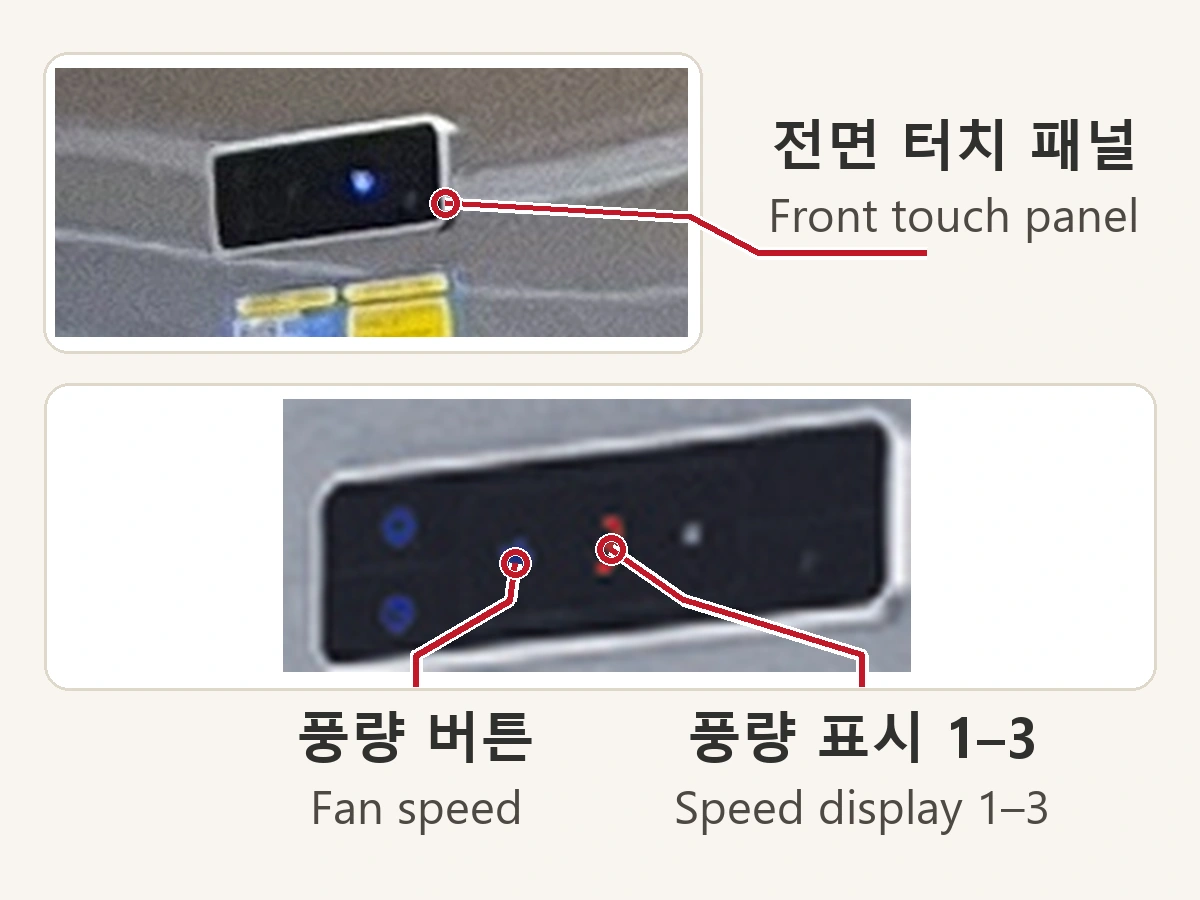
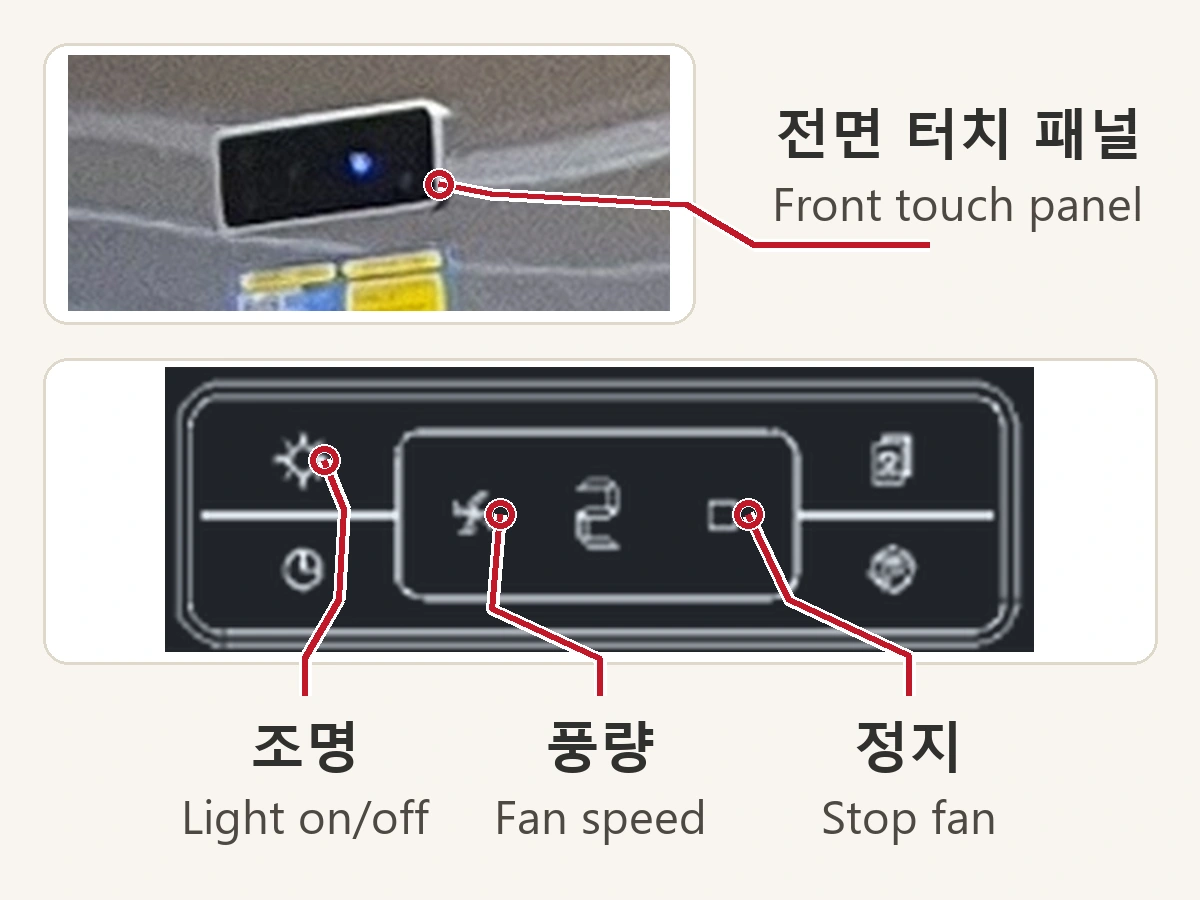
Label range hood light and stop controls

diff --git a/assets/equipment.js b/assets/equipment.js
@@ -71,14 +71,14 @@ export const applianceItems = [
     id:'cooktop', area:'kitchen',
     visuals:[
       official('induction','Haatz IH-232S',['전원과 오른쪽 인덕션 화력 + / −','Power and the induction heat controls (+ / −) on the right','電源と右側のIH火力調節（+ / −）','电源与右侧火力调节（+ / −）','電源與右側火力調節（+ / −）']),
-      guide('hood',['301호 주방 후드 · 전면 터치 패널과 풍량 버튼','Room 301 range hood · Front touch panel and fan speed button','301号室のレンジフード・前面タッチパネルと風量ボタン','301 号房抽油烟机 · 正面触控面板与风速按钮','301 號房抽油煙機 · 正面觸控面板與風速按鈕'])
+      guide('hood',['301호 주방 후드 · 조명, 풍량, 정지 버튼','Room 301 range hood · Light, fan speed and stop','301号室のレンジフード・照明、風量、停止ボタン','301 号房抽油烟机 · 照明、风速、停止按钮','301 號房抽油煙機 · 照明、風速、停止按鈕'])
     ],
     title:['인덕션과 주방 후드','Induction cooktop and range hood','IH調理器とレンジフード','电磁炉与抽油烟机','電磁爐與抽油煙機'],
     model:'Haatz IH-232S · SIH-30S',
     photo:{ id:'guide-laundry', marks:[[32,56],[29,27]], caption:['301호 실제 사진 · 싱크대 오른쪽 검은 상판이 인덕션이고, 위의 스테인리스 기기가 후드입니다.','Room 301 · The black cooktop is to the right of the sink, with the stainless-steel hood above.','301号室の実物写真・流しの右の黒い面がIH、上のステンレス製の機器がフードです。','301 号房实拍 · 水槽右边的黑色台面是电磁炉，上方为不锈钢油烟机。','301 號房實拍 · 水槽右側的黑色檯面是電磁爐，上方為不鏽鋼抽油煙機。'] },
     controls:[
-      ['FAN', ['조리 전에 후드의 팬 모양 버튼을 터치해 풍량을 1~3단으로 조절하세요. 인덕션용 냄비나 팬은 화구 가운데에 놓으세요.', 'Before cooking, tap the fan symbol on the hood to select speed 1, 2 or 3. Centre an induction-compatible pan on the cooking zone.', '調理前にフードのファンマークをタッチし、風量を1〜3段階で調節します。IH対応の鍋は加熱部の中央に置きます。', '烹饪前，触按油烟机上的风扇图标，将风速调至 1 至 3 档。将电磁炉适用的锅放在炉区中央。', '烹調前，觸按抽油煙機上的風扇圖示，將風速調至 1 至 3 檔。將電磁爐適用的鍋放在爐區中央。']],
-      ['⏻ → INDUCTION + / −', ['전원 버튼을 약 1초간 누른 뒤 오른쪽 Induction + / −로 화력을 조절하세요. 왼쪽 Timer는 작동 시간 설정에 사용합니다.', 'Hold Power for about one second, then use the Induction + / − buttons on the right to adjust the heat. The Timer on the left sets the cooking time.', '電源を約1秒押し、右側のInduction + / −で火力を調節します。左側のTimerは時間設定用です。', '按住电源键约 1 秒，再用右侧 Induction + / − 调节火力。左侧 Timer 用于设置时间。', '按住電源鍵約 1 秒，再用右側 Induction + / − 調整火力。左側 Timer 用於設定時間。']],
+      ['HOOD', ['조리 전에 팬 모양을 눌러 풍량을 1~3단으로 조절하세요. 해 모양으로 조명을 켜고 끄며, 네모 버튼을 누르면 팬이 멈춥니다.', 'Tap the fan symbol to choose speed 1–3 before cooking. The sun toggles the light, and the square stops the fan.', '調理前にファンマークを押し、風量を1〜3から選びます。太陽マークで照明を切り替え、四角いボタンでファンを停止します。', '烹饪前，按风扇图标选择 1 至 3 档。太阳图标开关照明，方形按钮停止风扇。', '烹調前，按風扇圖示選擇 1 至 3 檔。太陽圖示開關照明，方形按鈕停止風扇。']],
+      ['⏻ → INDUCTION + / −', ['인덕션용 냄비나 팬을 화구 가운데에 놓으세요. 전원을 약 1초간 누른 뒤 오른쪽 Induction + / −로 화력을 조절하세요. 왼쪽 Timer는 작동 시간을 설정합니다.', 'Centre an induction-compatible pan on the cooking zone. Hold Power for about one second, then adjust the heat with Induction + / − on the right. Timer on the left sets the cooking time.', 'IH対応の鍋を加熱部の中央に置きます。電源を約1秒押し、右側のInduction + / −で火力を調節します。左側のTimerで時間を設定できます。', '将电磁炉适用的锅放在炉区中央。按住电源键约 1 秒，再用右侧 Induction + / − 调节火力。左侧 Timer 用于设置时间。', '將電磁爐適用的鍋放在爐區中央。按住電源鍵約 1 秒，再用右側 Induction + / − 調整火力。左側 Timer 用於設定時間。']],
       ['H', ['조리를 마치면 전원을 끄세요. H가 표시되면 상판이 아직 뜨거우니 손대지 마세요.', 'Switch off after cooking. The H indicator means the glass is still hot. Keep your hands off it.', '調理後は電源を切ります。Hの表示中は天板が熱いため触れないでください。', '烹饪后请关闭电源。显示 H 表示台面仍热，请勿触摸。', '烹調後請關閉電源。顯示 H 代表檯面仍熱，請勿觸摸。']],
     ],
   },

diff --git a/assets/equipment-labels.js b/assets/equipment-labels.js
@@ -3,7 +3,7 @@ export const directPanelLabels = {
   'device-ac-wall': '301호 벽면 조작부 (Room 301 wall control). 위쪽 버튼 전원 (Power), 그 아래 두 버튼 온도 + / − (Temp. + / −)',
   'device-ac': '왼쪽 전원 (Power), 오른쪽 모드 (Mode)에서 냉방 선택 (Select Cool), 전원 아래 온도 + / − (Temp. + / −)',
   'device-speaker': '왼쪽부터 이전 곡 (Previous track), 전원 · 재생/일시정지 (Power · Play/Pause), 다음 곡 (Next track), 모드 (Mode)',
-  'device-hood': '후드 전면 터치 패널 (Front touch panel). 팬 모양의 풍량 버튼 (Fan speed), 오른쪽 숫자는 풍량 표시 1–3 (Speed display 1–3)',
+  'device-hood': '전면 터치 패널 (Front touch panel). 왼쪽 위 해 모양은 조명 (Light on/off), 숫자 왼쪽 팬 모양은 풍량 (Fan speed), 숫자 오른쪽 네모는 팬 정지 (Stop fan). 가운데 숫자는 풍량 표시 1–3 (Speed display 1–3).',
   'device-kettle-switch': '손잡이 아래 전원 스위치 (Power switch under the handle). 아래로 눌러 켜기 (Press down to turn on)',
   'device-official-rinnai-rc610': '3층 (3F). 전원 (Power), 난방 (Heating), 난방온도 + / - (Heating temp. + / -), 온수 (Hot water)',
   'device-official-rinnai-r324': '4층 (4F). 전원 (Power), 난방 (Heating dial), 온수 (Hot water)',
